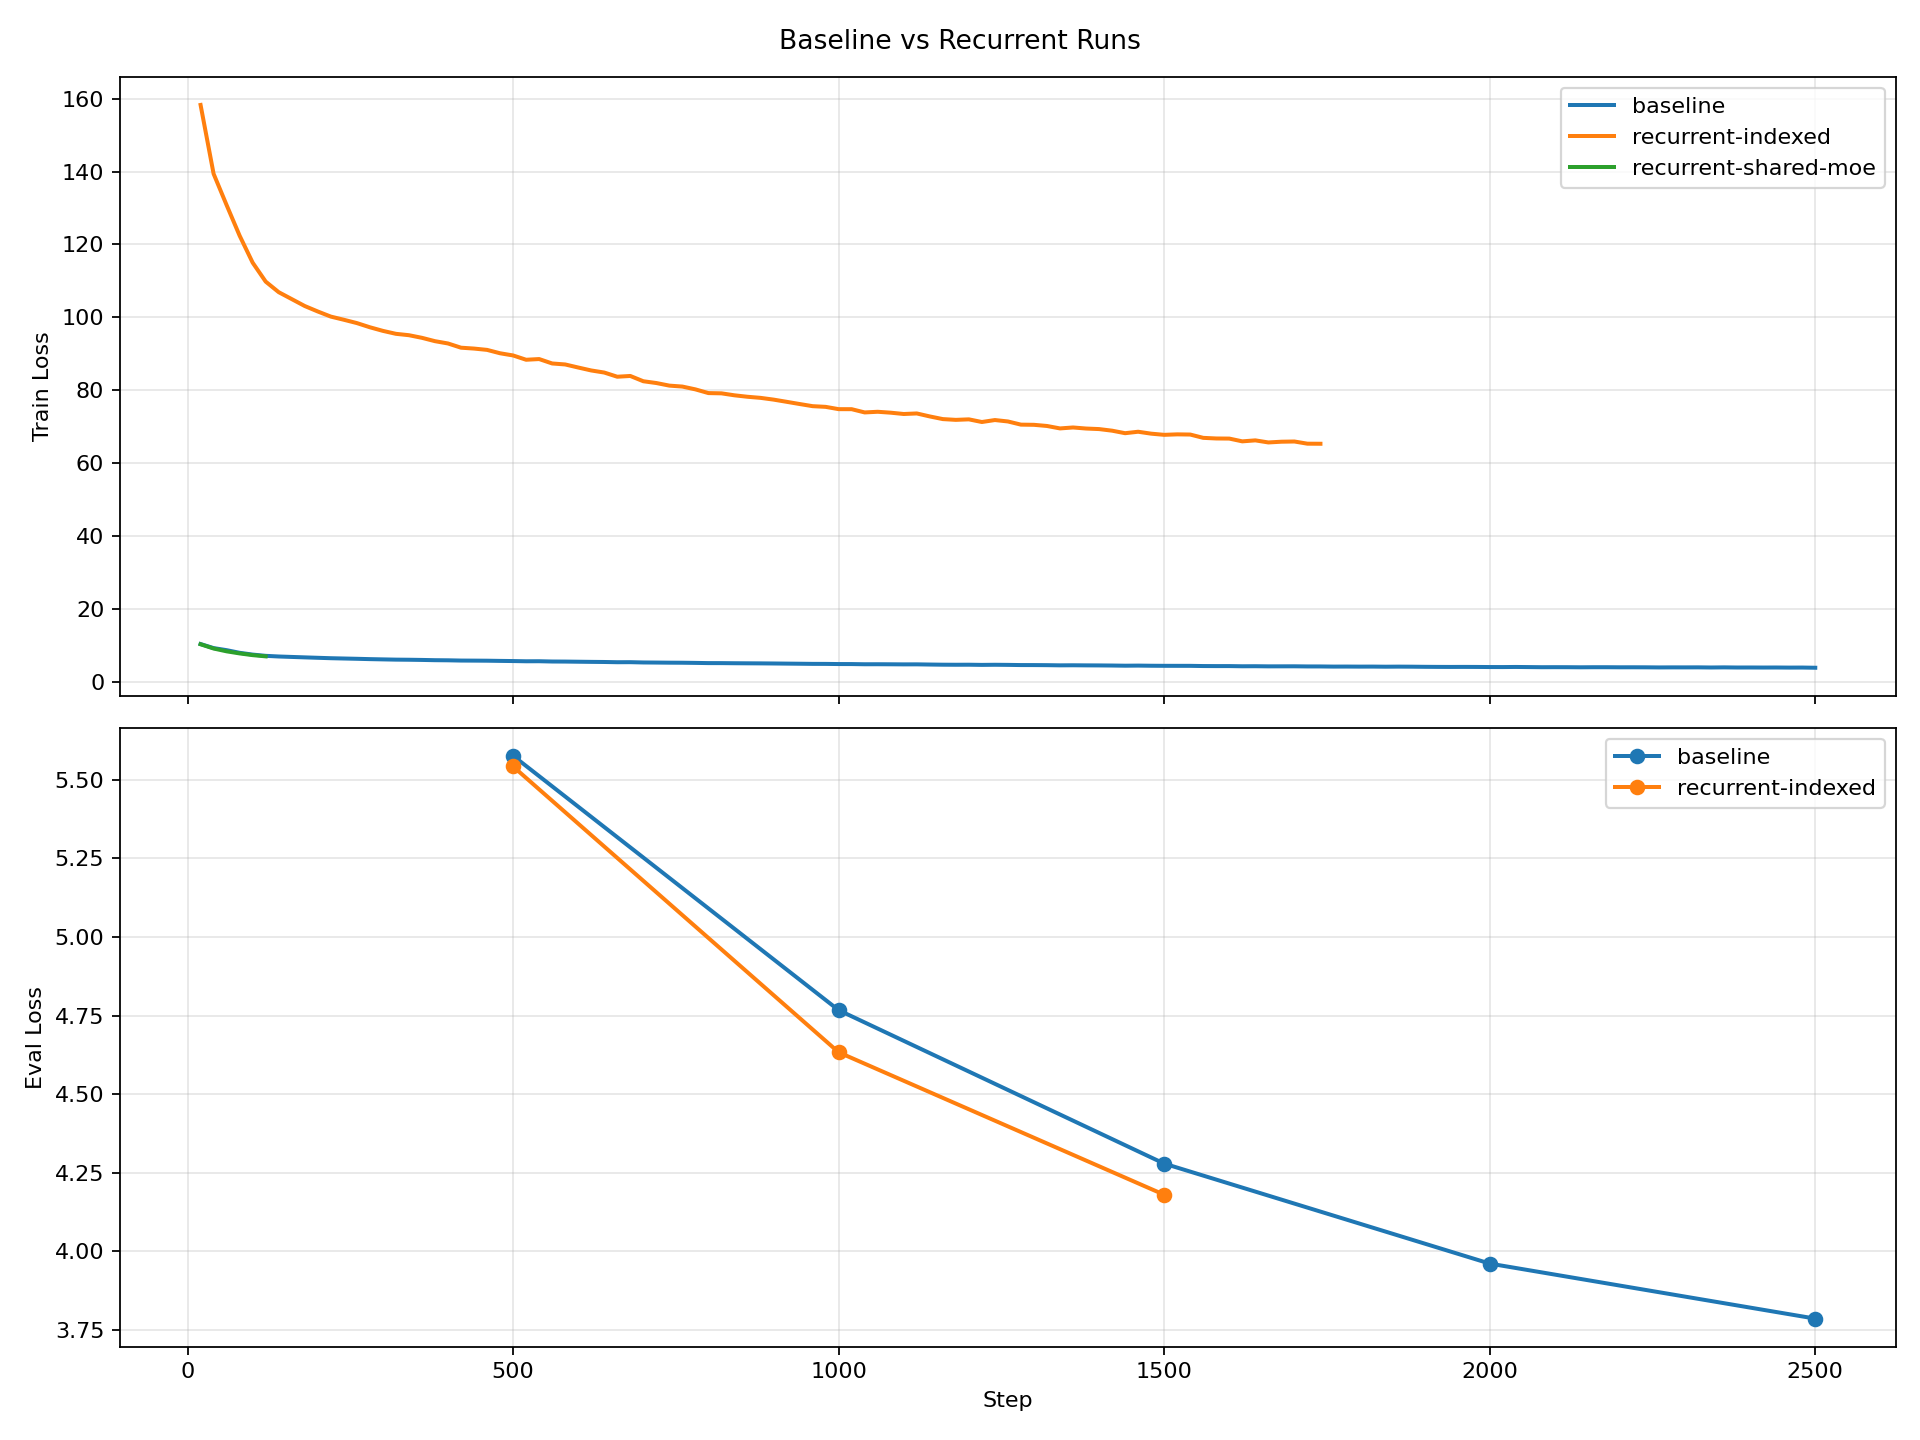
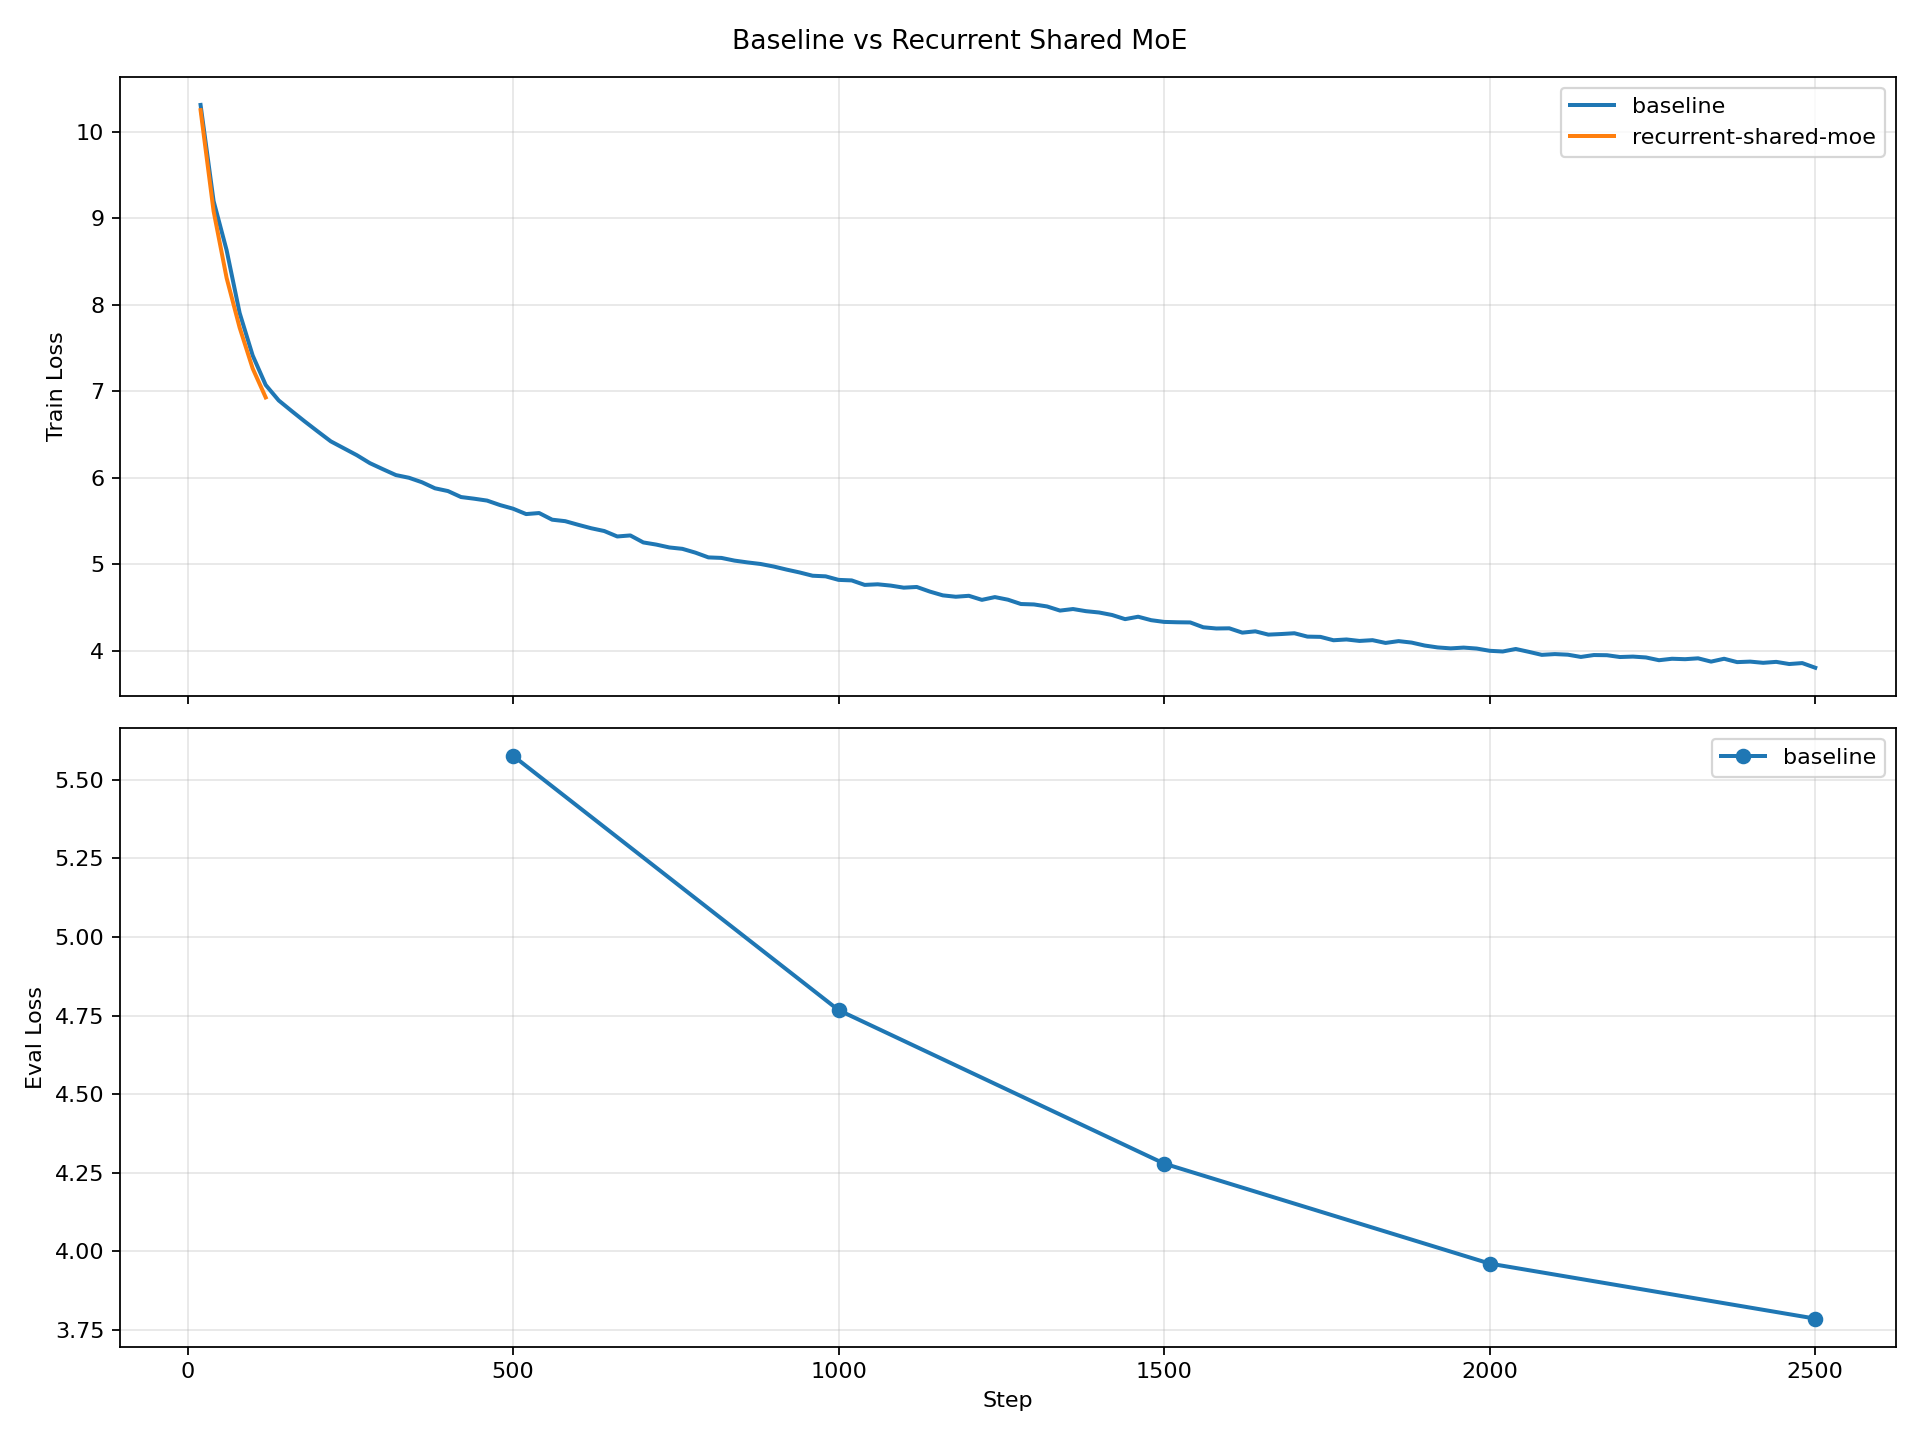
Update run comparison plot to baseline vs shared MoE

diff --git a/README.md b/README.md
@@ -105,10 +105,9 @@ cd /home/chenshen/rnn-transformer
 source .venv/bin/activate
 python scripts/plot_run_metrics.py \
   --run baseline=logs/train_live.log \
-  --run recurrent-indexed=logs/recurrent_indexed_live.log \
   --run recurrent-shared-moe=logs/recurrent_shared_moe_live.log \
   --output assets/run_metrics.png \
-  --title "Baseline vs Recurrent Runs"
+  --title "Baseline vs Recurrent Shared MoE"
 ```
 
 ![Run Metrics Comparison](assets/run_metrics.png)
